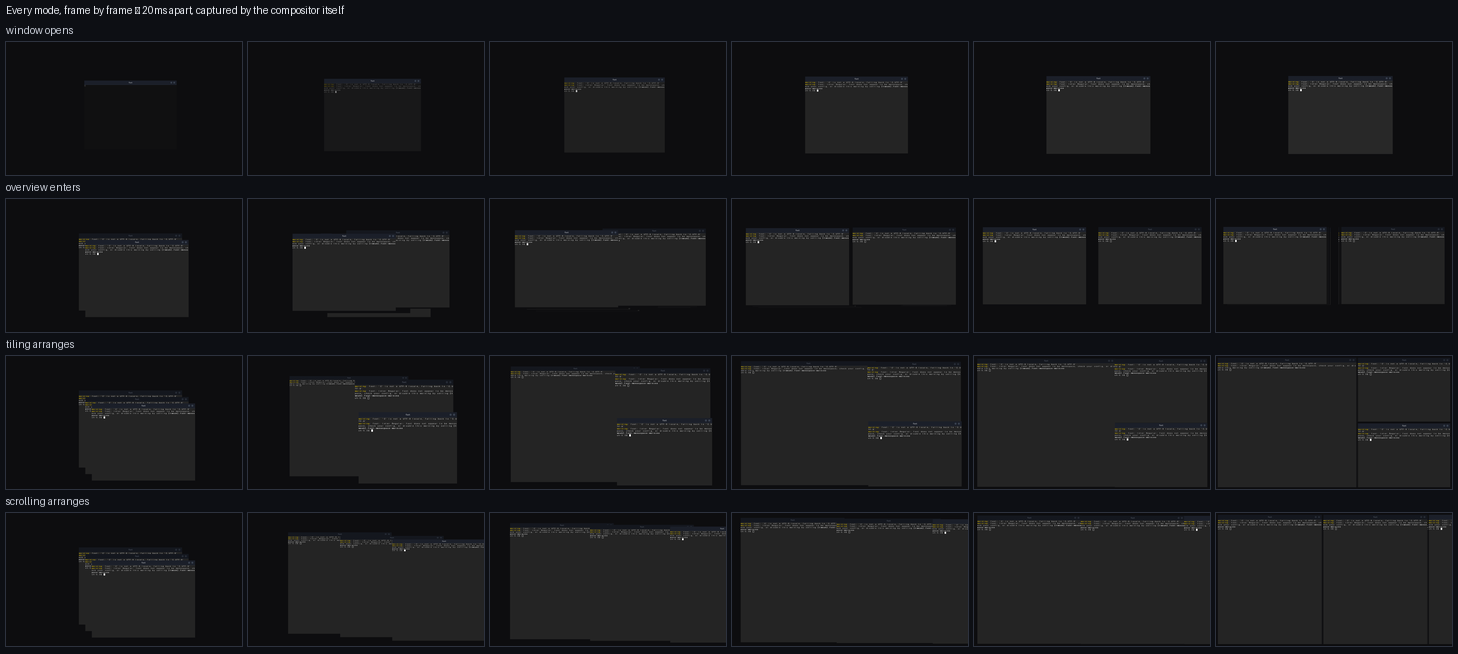
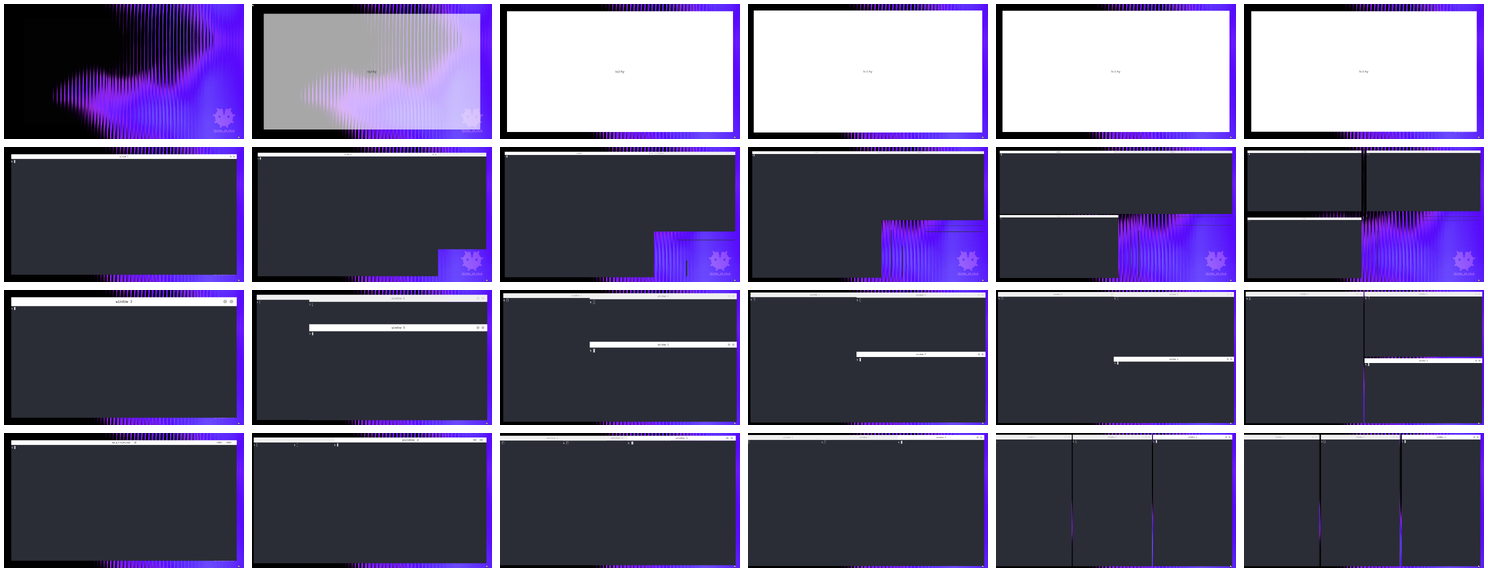
Docs: modes.md's two pictures, retaken in today's look (#160)
Both showed the dark palette from before 2aab7fe, no wallpaper, and the
compiled-in bar removed in 42b10f2. Retaken nested and self-captured, with
an empty XDG_CONFIG_HOME, no XCURSOR_*, QML on auto (software, nested), and
a bare kitty titled "window N"; the captions are in the Markdown.

- modes-frame-by-frame.png: one burst per row from the keypress, every
  other frame of 20 ms captures, so about 40 ms apart. The first row is
  the loading window opening, which is what a launched window is now; the
  caption says so and gives the spacing the pictures really have.
- overview-in-lua.png: three tiled windows, overview, and back. "Zero
  pixels" is re-proved: magick compare -metric AE on the first and last
  captures prints 0.

diff --git a/docs/modes.md b/docs/modes.md
@@ -9,12 +9,19 @@ missing thing is the bug rather than your mode. Overview is about a hundred
 lines of Lua for exactly this reason: it was written to find out whether the
 claim was true.
 
-![Every mode, frame by frame, twenty milliseconds apart](modes-frame-by-frame.png)
+![Four rows of six frames: a window opening, overview entering, tiling arranging three windows, and scrolling arranging them](modes-frame-by-frame.png)
 
 Every mode above is captured by the compositor reading back its own
-framebuffer, twenty milliseconds apart. One engine drew all four rows, which is
-the whole argument on one page: a window opening, overview entering, and two
-layouts arranging are the same interpolation with different targets.
+framebuffer, in a nested session with the shipped configuration. Each row starts
+at the keypress and is every other frame of a burst taken twenty milliseconds
+apart, so the pictures are about forty milliseconds apart and a row covers the
+first fifth of a second. The first row is a window opening from `super+return`:
+what opens is the loading window, which the terminal fills once it has started,
+later than this row reaches. The other three start from three terminals on
+top of one another and press `super+space`, `super+t` and `super+s`. One engine
+drew all four rows, which is the whole argument on one page: a window opening,
+overview entering, and two layouts arranging are the same interpolation with
+different targets.
 
 ## The two ways to move a window
 
@@ -954,12 +961,14 @@ again is named in the log again the next time it is short.
 
 ## A whole mode
 
-![Overview entering and leaving, and the desktop coming back unchanged](overview-in-lua.png)
+![Three tiled windows, the same three in overview, and the desktop after leaving it, unchanged](overview-in-lua.png)
 
-Above: three windows at rest with their QML frames, `super+space` into overview,
-and `super+space` again. The last frame differs from the first by zero pixels,
-which is the property that matters — a mode that cannot put the desktop back
-exactly is a mode nobody will use twice. All of it is `lua/overview.lua`.
+Above: three tiled windows at rest with their QML frames, `super+space` into
+overview, and `super+space` again, each a second after the key. The last frame
+differs from the first by zero pixels (`magick compare -metric AE` on the two
+captures), which is the property that matters — a mode that cannot put the
+desktop back exactly is a mode nobody will use twice. All of it is
+`lua/overview.lua`.
 
 
 This is real and it works. Save it as `~/.config/solium/mymode.lua`. A mode is
